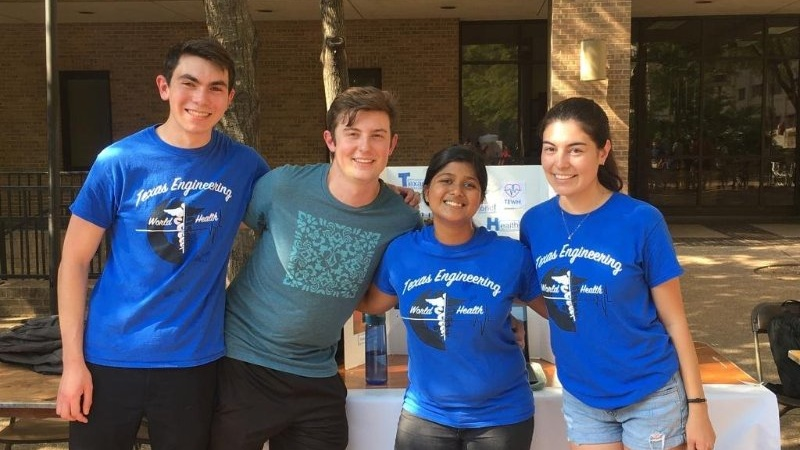
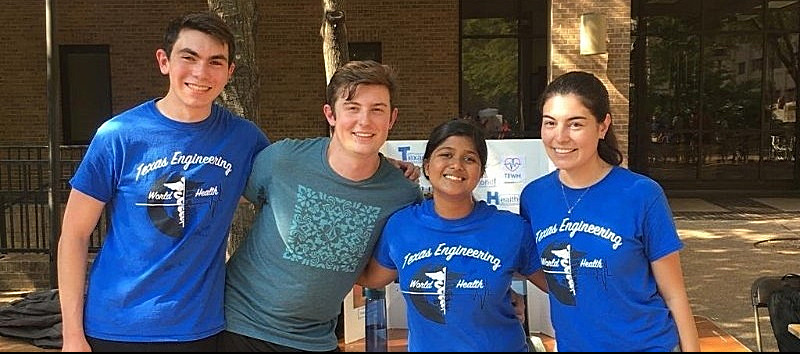
changed pictures on carousel

diff --git a/src/home/Carousel.js b/src/home/Carousel.js
@@ -21,8 +21,8 @@ const CarouselPage = () => {
           <MDBCarouselItem itemId="1">
             <MDBView>
               <img
-                className="d-block w-100"
-                src={require("./img/tabling.jpg")}
+                className="d-block w-100 crop-image"
+                src={require("./img/officers.jpg")}
                 alt="First slide"
               />
             </MDBView>
@@ -31,7 +31,7 @@ const CarouselPage = () => {
             <MDBView>
               <img
                 className="d-block w-100"
-                src="https://mdbootstrap.com/img/Photos/Slides/img%20(129).jpg"
+                src={require("./img/tabling.jpg")}
                 alt="Second slide"
               />
             </MDBView>
@@ -40,7 +40,7 @@ const CarouselPage = () => {
             <MDBView>
               <img
                 className="d-block w-100"
-                src="https://mdbootstrap.com/img/Photos/Slides/img%20(70).jpg"
+                src={require("./img/cvm_pcb.jpg")}
                 alt="Third slide"
               />
             </MDBView>

diff --git a/src/supporters/Supporters.js b/src/supporters/Supporters.js
@@ -1,5 +1,6 @@
 import React, { Component } from 'react';
 import { MDBMask, MDBView, MDBRow, MDBContainer } from "mdbreact";
+import './supporters.css'
 
 class SupportUs extends Component {
     render() {
@@ -19,6 +20,8 @@ class SupportUs extends Component {
     }
 }
 
+
+
 class Supporters extends Component {
     render() {
         return (
@@ -28,6 +31,22 @@ class Supporters extends Component {
                 <h1 className="text-center alert">
                     Thank you to our generous supporters!
                 </h1>
+
+                <h3 className="supporter-name">
+                    Calvin Lau
+                </h3>
+
+                <h3 className="supporter-name">
+                    Lily Chen
+                </h3>
+
+                <h3 className="supporter-name">
+                    Sheryl Sabillo-Wiser
+                </h3>
+
+                <h3 className="supporter-name">
+                    Litao Wang
+                </h3>
 
                 </MDBContainer>
             </div>

diff --git a/src/components/Footer.js b/src/components/Footer.js
@@ -26,7 +26,7 @@ class Footer extends Component {
             <a href="https://www.facebook.com/groups/TexasEWH/" className="pr-3 text-dark">Facebook |&nbsp;
               <FontAwesomeIcon icon={['fab', 'facebook-f']} />
             </a>
-            <a href="#!" className="p-3 text-dark">Linkedin |&nbsp;
+            <a href="http://www.linkedin.com/in/tewh" className="p-3 text-dark">Linkedin |&nbsp;
               <FontAwesomeIcon icon={['fab', 'linkedin-in']} />
             </a>
             <a href="https://github.com/TEWH" className="p-3 text-dark">Github |&nbsp;

diff --git a/src/home/Home.css b/src/home/Home.css
@@ -19,6 +19,10 @@
     font-size: 1.1em;
 }
 
+.crop-image {
+    object-fit: contain;
+}
+
 .dark-gray {
     color: #707070;
 }

diff --git a/src/supporters/supporters.css b/src/supporters/supporters.css
@@ -1,0 +1,5 @@
+.supporter-name {
+    text-align: center;
+    color: #5c6bc0;
+    padding: 1.5em;
+}
